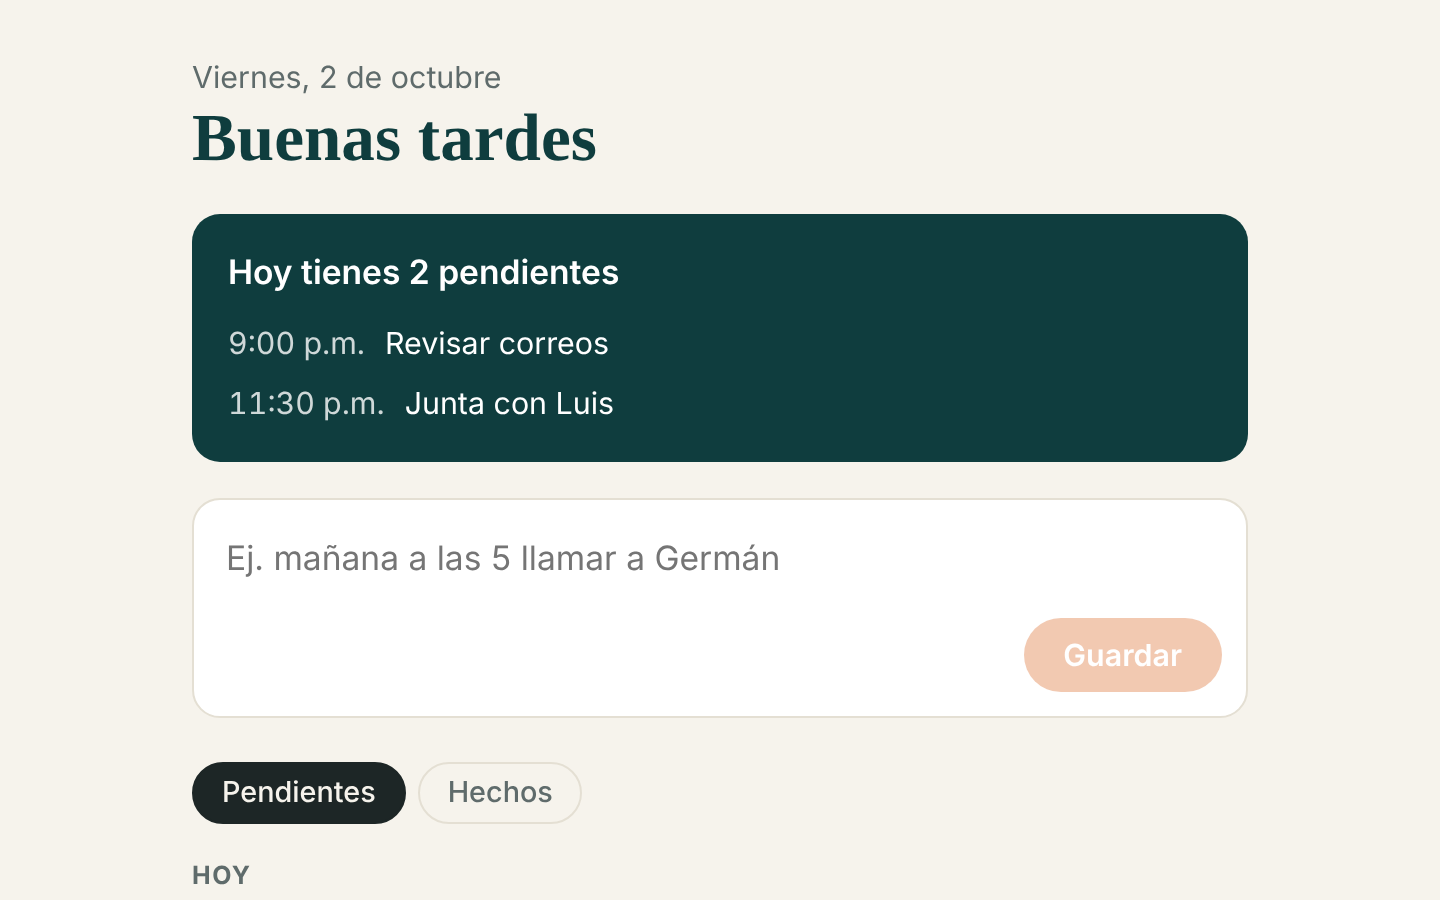
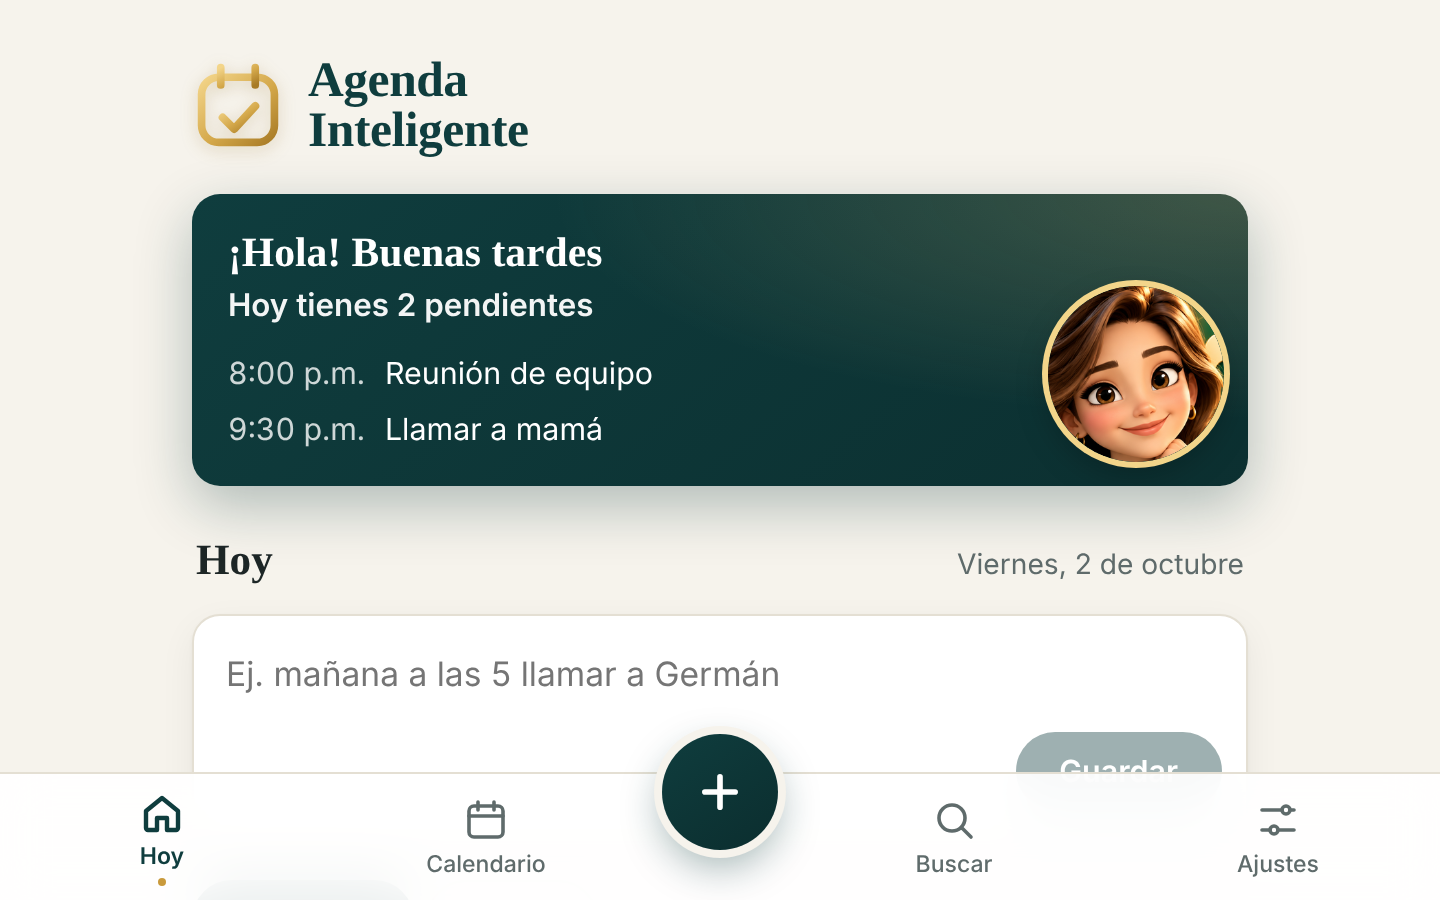
Rediseño visual con la asistente
- Marca arriba con logo dorado y nombre
- Tarjeta de saludo con la asistente, degradado del color de acento
- Título del día, tarjetas más suaves y botón + al centro de la barra
- Capturas de la ficha de instalación actualizadas; service worker v7
- Sin funciones nuevas; todas las pruebas en verde

Claude-Session: https://claude.ai/code/session_01GPnpr6NMsAKEzL5KTdtunR

diff --git a/styles.css b/styles.css
@@ -450,3 +450,58 @@ body {
 .nota-accion { margin: 0; font-size: .78rem; color: var(--suave); }
 .hoja .primario { text-decoration: none; display: inline-flex; align-items: center; }
 .hoja p { overflow-wrap: anywhere; }
+
+/* =========================================================
+   Diseño "asistente": marca, tarjeta de saludo, oro y botón +
+   ========================================================= */
+:root { --oro: #c99a3c; --oro-claro: #f3d58a; --sombra: 0 1px 2px rgba(16, 32, 32, .04), 0 6px 18px rgba(16, 32, 32, .06); }
+
+.marca-app { display: flex; align-items: center; gap: 12px; margin: 0 0 18px; }
+.marca-app .logo { width: 46px; height: 46px; flex: none; filter: drop-shadow(0 2px 4px rgba(150, 110, 30, .25)); }
+.nombre-app {
+  margin: 0; font-family: Fraunces, Georgia, serif; font-weight: 600;
+  font-size: 1.55rem; line-height: 1.02; letter-spacing: -.01em; color: var(--acento);
+}
+
+/* Tarjeta de saludo con la asistente */
+.resumen {
+  position: relative; overflow: hidden;
+  background:
+    radial-gradient(120% 140% at 100% 0%, rgba(243, 213, 138, .22), transparent 55%),
+    linear-gradient(140deg, var(--acento), color-mix(in srgb, var(--acento) 78%, #000));
+  box-shadow: 0 10px 28px color-mix(in srgb, var(--acento) 30%, transparent);
+  padding-right: calc(var(--pad-caja) + 92px);
+  min-height: 132px;
+}
+.resumen .hola { margin: 0 0 4px; font-family: Fraunces, Georgia, serif; font-size: 1.3rem; font-weight: 600; line-height: 1.15; }
+.resumen h2 { font-size: .98rem; opacity: .95; }
+.resumen .asistente {
+  position: absolute; right: 12px; bottom: 12px; width: 88px; height: 88px; border-radius: 50%;
+  box-shadow: 0 0 0 3px var(--oro-claro), 0 6px 16px rgba(0, 0, 0, .25);
+  object-fit: cover; background: #0f3d3e;
+}
+.resumen li { padding: 3px 0; }
+
+.titulo-dia { display: flex; align-items: baseline; justify-content: space-between; gap: 10px; margin: 22px 2px 10px; }
+.titulo-dia h2 { margin: 0; font-family: Fraunces, Georgia, serif; font-size: 1.35rem; font-weight: 600; }
+.titulo-dia .fecha-hoy { font-size: .88rem; }
+
+/* Tarjetas un poco más suaves, como en el diseño */
+.item { border-color: color-mix(in srgb, var(--linea) 70%, transparent); box-shadow: var(--sombra); }
+.captura { box-shadow: var(--sombra); }
+.encabezado h1 { letter-spacing: -.01em; }
+
+/* Barra con botón + al centro */
+.tabbar { grid-template-columns: repeat(2, 1fr) 72px repeat(2, 1fr); }
+.tab-nuevo { border: 0; background: transparent; padding: 0; display: flex; align-items: flex-start; justify-content: center; cursor: pointer; }
+.tab-nuevo span {
+  width: 58px; height: 58px; margin-top: -20px; border-radius: 50%;
+  display: grid; place-items: center;
+  background: linear-gradient(145deg, var(--acento), color-mix(in srgb, var(--acento) 75%, #000));
+  box-shadow: 0 0 0 4px var(--fondo), 0 8px 20px color-mix(in srgb, var(--acento) 40%, transparent);
+}
+.tab-nuevo svg { width: 26px; height: 26px; fill: none; stroke: var(--sobre-acento); stroke-width: 2.6; stroke-linecap: round; }
+.tab-nuevo:active span { transform: scale(.95); }
+.tab.activo::after {
+  content: ''; width: 4px; height: 4px; border-radius: 50%; background: var(--oro); margin-top: 1px;
+}

diff --git a/app.js b/app.js
@@ -43,8 +43,7 @@
     const ahora = new Date();
     const f = ahora.toLocaleDateString('es-MX', { weekday: 'long', day: 'numeric', month: 'long' });
     $('fechaHoy').textContent = f.charAt(0).toUpperCase() + f.slice(1);
-    const h = ahora.getHours();
-    $('saludo').textContent = h < 12 ? 'Buen día' : h < 19 ? 'Buenas tardes' : 'Buenas noches';
+
   }
 
   function pintarResumen() {
@@ -56,6 +55,16 @@
 
     const caja = $('resumen');
     caja.innerHTML = '';
+    const hora = ahora.getHours();
+    const hola = document.createElement('p');
+    hola.className = 'hola';
+    hola.textContent = '¡Hola! ' + (hora < 12 ? 'Buen día' : hora < 19 ? 'Buenas tardes' : 'Buenas noches');
+    const avatar = document.createElement('img');
+    avatar.className = 'asistente';
+    avatar.src = 'icons/asistente.png';
+    avatar.alt = '';
+    avatar.width = 88; avatar.height = 88;
+    caja.append(avatar, hola);
     const h2 = document.createElement('h2');
     h2.textContent = deHoy.length
       ? `Hoy tienes ${deHoy.length} ${deHoy.length === 1 ? 'pendiente' : 'pendientes'}`
@@ -78,7 +87,7 @@
     } else {
       const p = document.createElement('p');
       p.className = 'vacio';
-      p.textContent = 'No tienes nada agendado para hoy. Escribe abajo lo que necesites recordar.';
+      p.textContent = 'Estoy aquí para ayudarte a recordar lo importante. Hoy no tienes nada agendado.';
       caja.appendChild(p);
     }
     if (atrasados.length) {
@@ -595,6 +604,13 @@
   }
 
   document.querySelectorAll('.tab').forEach((t) => t.addEventListener('click', () => navegar(t.dataset.ir)));
+  $('tabNuevo').addEventListener('click', () => {
+    if (vistaActual !== 'hoy') navegar('hoy');
+    setTimeout(() => {
+      $('captura').scrollIntoView({ behavior: 'smooth', block: 'center' });
+      entrada.focus({ preventScroll: true });
+    }, vistaActual === 'hoy' ? 0 : 150);
+  });
   window.addEventListener('popstate', () => mostrarVista((history.state && history.state.vista) || 'hoy'));
 
   // =====================================================================

diff --git a/index.html b/index.html
@@ -42,12 +42,23 @@
         <button type="button" id="cerrarTip" class="cerrar" aria-label="Cerrar">×</button>
       </div>
 
-      <header class="encabezado">
-        <p class="fecha-hoy" id="fechaHoy"></p>
-        <h1 id="saludo">Buen día</h1>
+      <header class="marca-app">
+        <svg class="logo" viewBox="0 0 48 48" aria-hidden="true">
+          <defs><linearGradient id="oro" x1="0" y1="0" x2="1" y2="1"><stop offset="0" stop-color="#f3d58a"/><stop offset=".55" stop-color="#d4a84a"/><stop offset="1" stop-color="#a87b26"/></linearGradient></defs>
+          <rect x="5" y="9" width="38" height="34" rx="9" fill="none" stroke="url(#oro)" stroke-width="4"/>
+          <path d="M5 19h38" stroke="url(#oro)" stroke-width="4"/>
+          <path d="M15 4v9M33 4v9" stroke="url(#oro)" stroke-width="4" stroke-linecap="round"/>
+          <path d="m16 30 6 6 11-12" fill="none" stroke="url(#oro)" stroke-width="4.2" stroke-linecap="round" stroke-linejoin="round"/>
+        </svg>
+        <h1 class="nombre-app">Agenda<br>Inteligente</h1>
       </header>
 
       <section class="resumen" id="resumen" aria-live="polite"></section>
+
+      <div class="titulo-dia">
+        <h2>Hoy</h2>
+        <p class="fecha-hoy" id="fechaHoy"></p>
+      </div>
 
       <form class="captura" id="captura" autocomplete="off">
         <label for="entrada" class="oculto">Nuevo pendiente</label>
@@ -203,6 +214,9 @@
     <button type="button" class="tab" data-ir="calendario">
       <svg viewBox="0 0 24 24" aria-hidden="true"><rect x="3.5" y="5" width="17" height="15.5" rx="2.5"/><path d="M3.5 10h17M8 3v4M16 3v4"/></svg>
       <span>Calendario</span>
+    </button>
+    <button type="button" class="tab-nuevo" id="tabNuevo" aria-label="Nuevo pendiente">
+      <span><svg viewBox="0 0 24 24" aria-hidden="true"><path d="M12 5v14M5 12h14"/></svg></span>
     </button>
     <button type="button" class="tab" data-ir="buscar">
       <svg viewBox="0 0 24 24" aria-hidden="true"><circle cx="11" cy="11" r="6.5"/><path d="m16 16 4.5 4.5"/></svg>

diff --git a/sw.js b/sw.js
@@ -4,12 +4,12 @@
 // 3) Atiende los botones del aviso: "Posponer 10 min" y "Hecho".
 importScripts('almacen.js', 'acciones.js');
 
-const CACHE = 'agenda-v6';
+const CACHE = 'agenda-v7';
 const POSPONER_MIN = 10;
 const ARCHIVOS = [
   '/', '/index.html', '/styles.css', '/app.js', '/parser.js', '/almacen.js', '/ajustes.js', '/acciones.js',
   '/manifest.webmanifest', '/icon.svg', '/icons/icon-192.png', '/icons/icon-512.png',
-  '/icons/icon-maskable-512.png', '/icons/badge-96.png', '/icons/apple-touch-icon.png', '/icons/favicon-48.png',
+  '/icons/icon-maskable-512.png', '/icons/badge-96.png', '/icons/apple-touch-icon.png', '/icons/favicon-48.png', '/icons/asistente.png',
 ];
 
 self.addEventListener('install', (e) => {

diff --git a/test/sprint-calendario-buscar-ajustes.py b/test/sprint-calendario-buscar-ajustes.py
@@ -123,7 +123,8 @@ with sync_playwright() as p:
     colores = {"ajustes: pestaña": pg.evaluate("getComputedStyle(document.querySelector('.tab.activo')).color"),
                "ajustes: interruptor": pg.evaluate("getComputedStyle(document.getElementById('ajSonido')).backgroundColor")}
     paso(13, "color de acento cambiado a morado")
-    tab(pg, "hoy"); colores["hoy: resumen"] = pg.evaluate("getComputedStyle(document.getElementById('resumen')).backgroundColor")
+    tab(pg, "hoy"); fondo_resumen = pg.evaluate("getComputedStyle(document.getElementById('resumen')).backgroundImage")
+    colores["hoy: resumen"] = MORADO if MORADO in fondo_resumen else fondo_resumen  # degradado con el acento
     colores["hoy: filtro activo"] = pg.evaluate("getComputedStyle(document.querySelector('.filtro.activo')).backgroundColor")
     pg.screenshot(path="/tmp/claude-0/-home-claude/664b7c3d-405b-5f8f-9031-07e69fa0cf95/scratchpad/s-hoy-morado.png")
     tab(pg, "calendario"); colores["calendario: día elegido"] = pg.evaluate("getComputedStyle(document.querySelector('.dia.sel')).backgroundColor")
